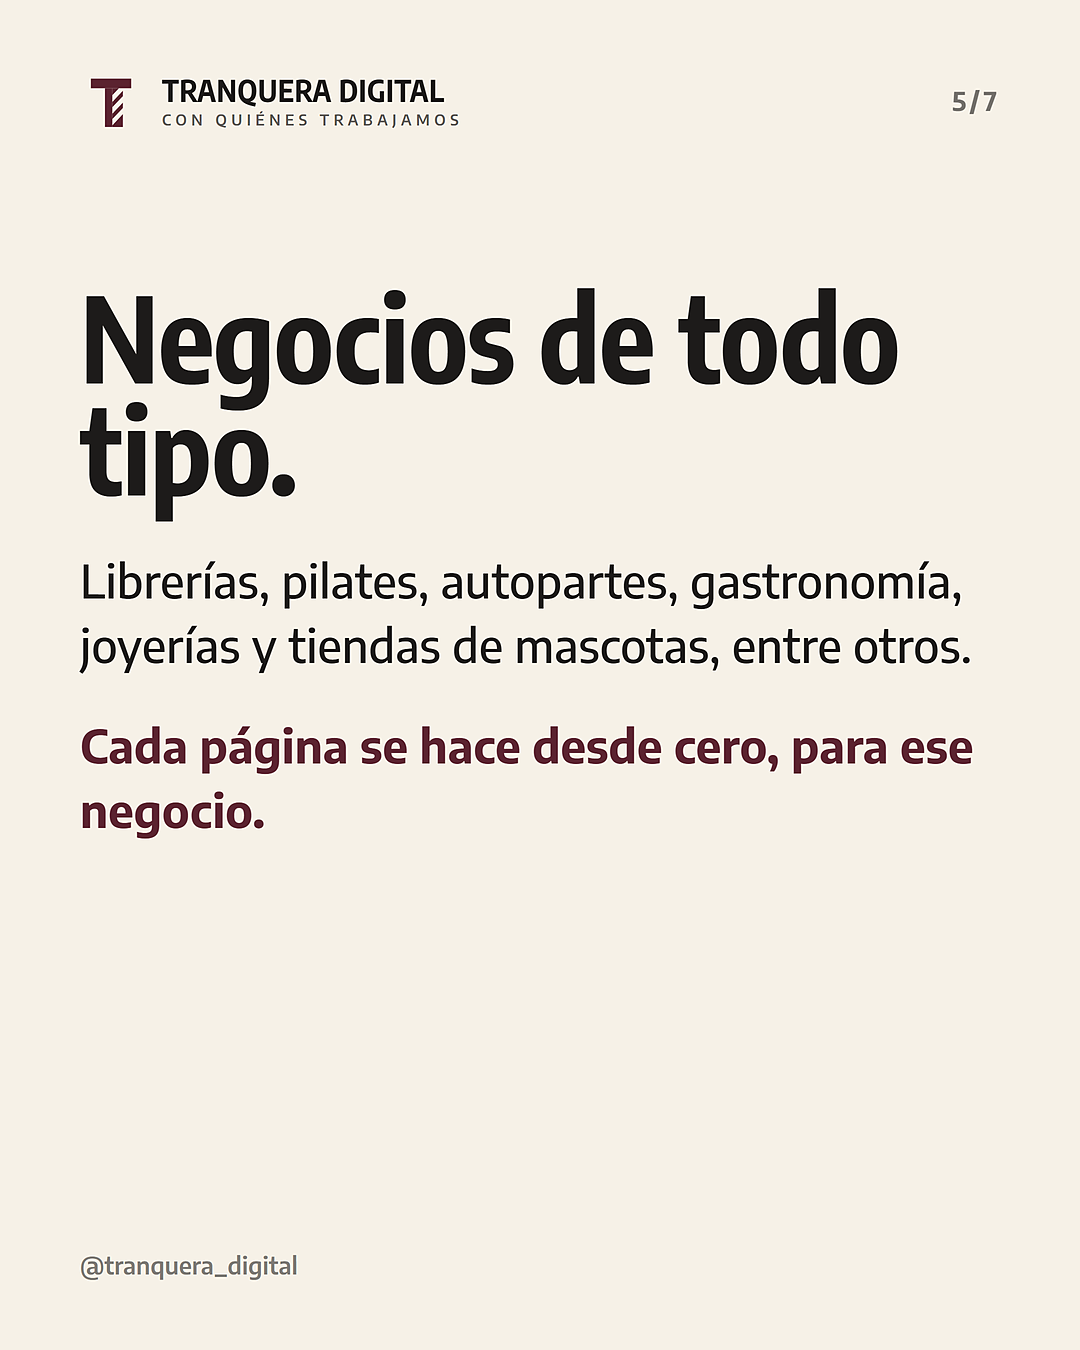
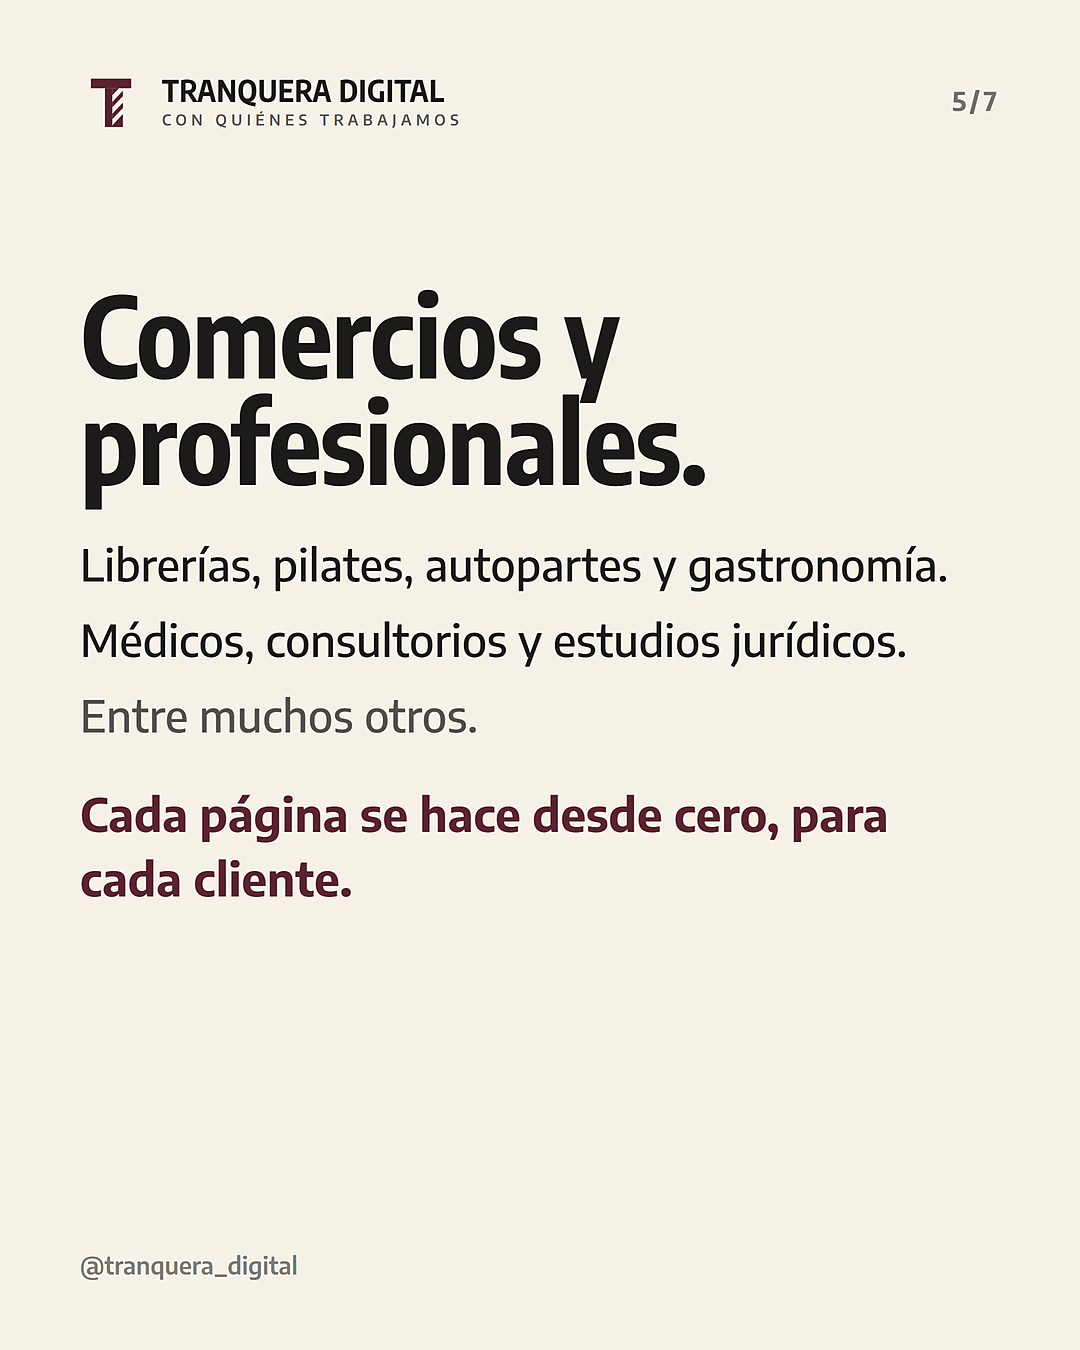
Quiénes somos: comercios y profesionales

Changed region(s): [[0.0611, 0.2178, 0.9167, 0.6844]]

diff --git a/index.html b/index.html
@@ -52,7 +52,7 @@ Comentá PROPUESTA y te escribimos.
 
 #PaginaWeb #DiseñoWeb #TranqueraDigital</div><div class="mus">MÚSICA: cuando se publique, entrá desde el celu al carrusel → tres puntos → Editar → Audio, y elegí un tema.</div></div></section><section class="day"><div class="when"><b>Para reemplazar</b><span>revisar</span><em class="tag">CARRUSEL · QUIÉNES SOMOS</em><small>Versión corregida: sin el 62 y con los 4 servicios del catálogo. Reemplaza al publicado.</small></div><div class="body"><div class="media"><img src="png/q1.png" loading="lazy"><img src="png/q2.png" loading="lazy"><img src="png/q3.png" loading="lazy"><img src="png/q4.png" loading="lazy"><img src="png/q5.png" loading="lazy"><img src="png/q6.png" loading="lazy"><img src="png/q7.png" loading="lazy"></div><div class="cap"><small>Texto</small>Somos Tranquera Digital, una consultora digital de CABA.
 
-Hacemos páginas web, bots de WhatsApp, manejamos tus redes y te ponemos en Google con publicidad y métricas. Cada página se hace desde cero, para ese negocio, y la ves antes de pagar.
+Hacemos páginas web, bots de WhatsApp, manejamos tus redes y te ponemos en Google con publicidad y métricas. Cada página se hace desde cero, para cada cliente, y la ves antes de pagar.
 
 Si querés ver cómo quedaría la tuya, escribinos.
 
